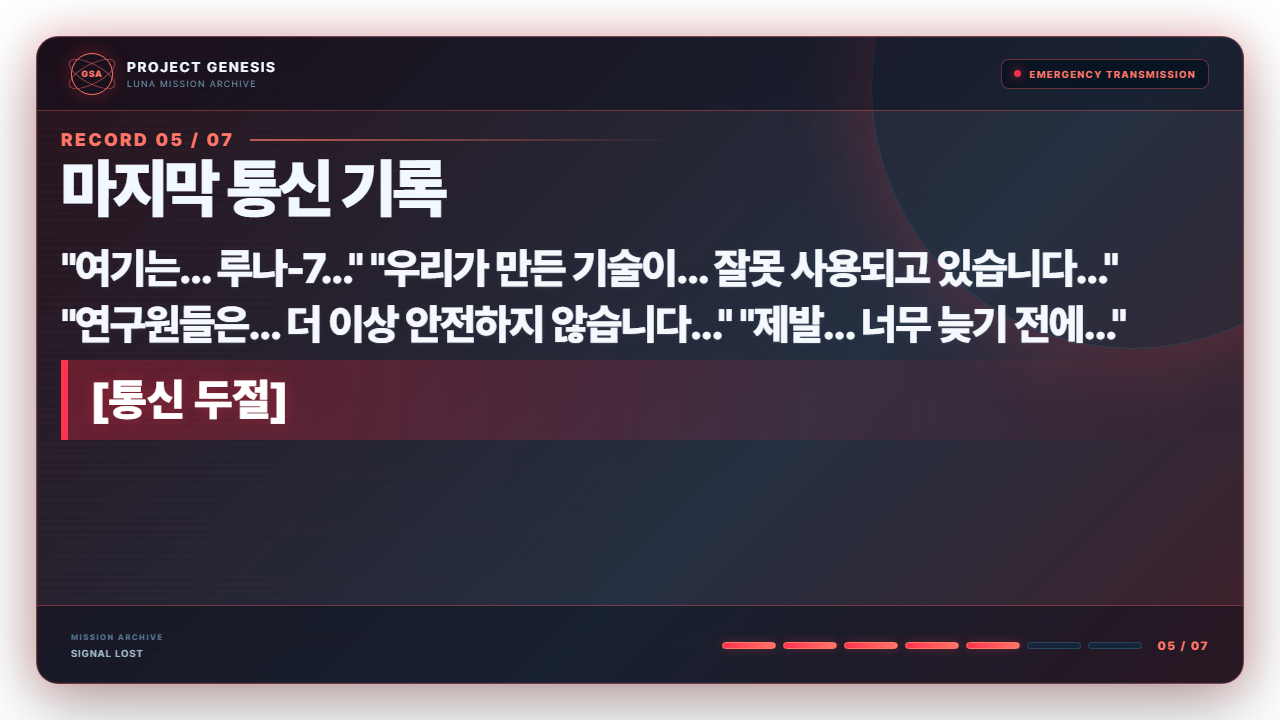
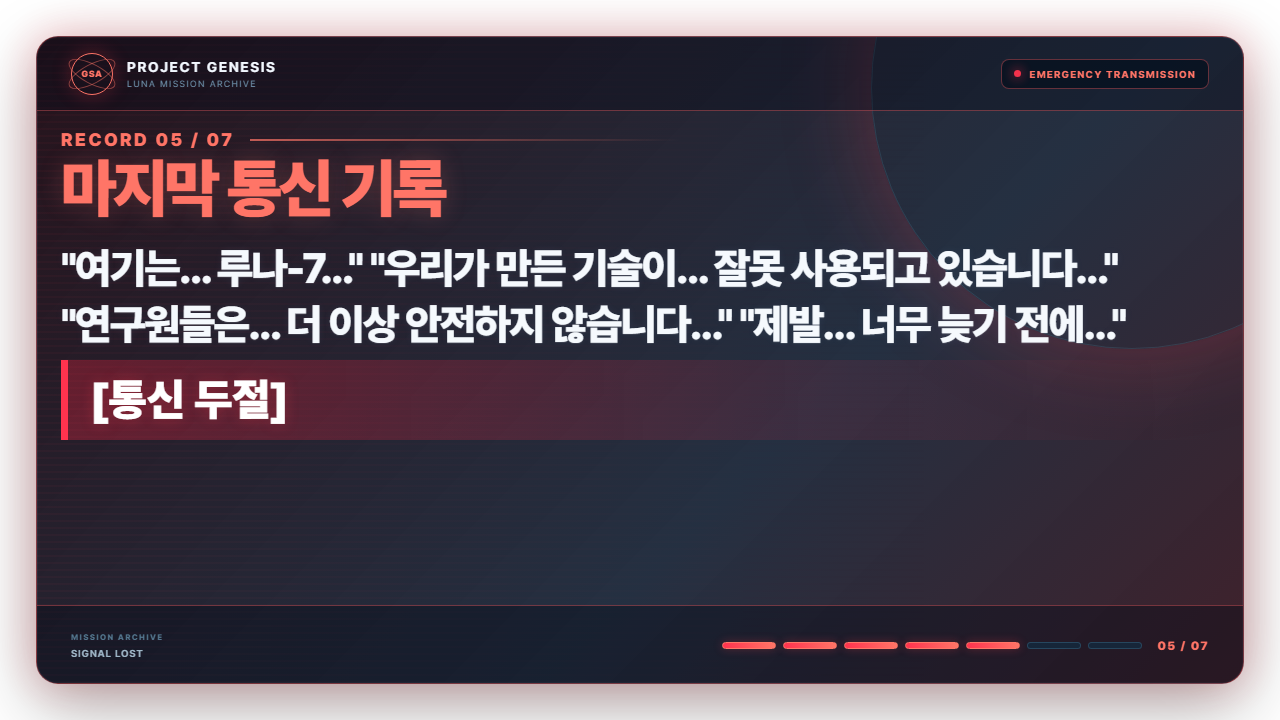
style: color all Genesis panel titles

Changed region(s): [[0.0312, 0.2139, 0.3438, 0.3056]]

diff --git a/apps/zep-studio/story-panel-renderer.css b/apps/zep-studio/story-panel-renderer.css
@@ -2,7 +2,12 @@
 :root{--accent:#62d9ff;--accent2:#347cff;--alert:#ff7b55;--glow:rgba(77,195,255,.32);--panel:rgba(3,12,28,.93);--panel2:rgba(7,24,47,.9);--line:rgba(102,217,255,.34);--text:#f2f8ff;--muted:#9cb5c9}
 *{box-sizing:border-box}html,body{width:1280px;height:720px;margin:0;overflow:hidden;background:transparent;font-family:Pretendard,Arial,sans-serif}body{padding:36px}.story-panel{position:relative;width:1208px;height:648px;overflow:hidden;border:1px solid var(--line);border-radius:22px;background:linear-gradient(135deg,var(--panel),rgba(4,17,37,.87) 62%,var(--panel2));color:var(--text);box-shadow:0 0 0 1px rgba(147,224,255,.06) inset,0 22px 70px rgba(0,0,0,.32),0 0 42px var(--glow);isolation:isolate}.story-panel::before{content:'';position:absolute;inset:0;z-index:-2;background:linear-gradient(rgba(117,208,255,.028) 1px,transparent 1px),linear-gradient(90deg,rgba(117,208,255,.028) 1px,transparent 1px);background-size:32px 32px;mask-image:linear-gradient(90deg,#000,transparent 78%)}.story-panel::after{content:'';position:absolute;width:520px;height:520px;right:-150px;top:-210px;z-index:-1;border:1px solid rgba(105,218,255,.12);border-radius:50%;box-shadow:0 0 90px var(--glow)}.tone-red{--accent:#ff7567;--accent2:#ff334e;--alert:#ffb264;--glow:rgba(255,55,70,.28);--line:rgba(255,100,103,.38);--panel:rgba(24,4,13,.94);--panel2:rgba(40,5,16,.89)}.tone-amber{--accent:#64d8ff;--accent2:#ff9b43;--alert:#ffad52;--glow:rgba(255,143,54,.22)}.tone-mixed{--accent:#65dfff;--accent2:#ff5e55;--alert:#ff7761;--glow:rgba(80,166,255,.26)}.tone-bright{--accent:#d8f8ff;--accent2:#67caff;--alert:#fff;--glow:rgba(156,234,255,.46);--panel:rgba(4,20,40,.88);--panel2:rgba(14,62,89,.84);--line:rgba(202,246,255,.62)}
 .panel-header{height:74px;display:flex;align-items:center;justify-content:space-between;padding:0 34px;border-bottom:1px solid var(--line);background:rgba(3,10,22,.34)}.agency{display:flex;align-items:center;gap:14px}.agency-mark{position:relative;display:grid;place-items:center;width:42px;height:42px;border:1px solid var(--accent);border-radius:50%;color:var(--accent);font-size:9px;font-weight:900;letter-spacing:.08em;box-shadow:0 0 20px var(--glow)}.agency-mark::before,.agency-mark::after{content:'';position:absolute;width:50px;height:18px;border:1px solid var(--accent);border-radius:50%;opacity:.48;transform:rotate(28deg)}.agency-mark::after{transform:rotate(-28deg)}.agency b,.agency small{display:block}.agency b{font-size:14px;letter-spacing:.12em}.agency small{margin-top:3px;color:#6e90aa;font-size:9px;letter-spacing:.16em}.system-status{display:flex;align-items:center;gap:9px;padding:8px 12px;border:1px solid var(--line);border-radius:8px;background:rgba(4,15,29,.72);color:var(--accent);font-size:10px;font-weight:800;letter-spacing:.12em}.system-status i{width:7px;height:7px;border-radius:50%;background:var(--accent2);box-shadow:0 0 12px var(--accent2);animation:pulse 1.6s infinite}@keyframes pulse{50%{opacity:.38}}
-.panel-main{display:block;height:494px;padding:18px 24px 12px}.copy{min-width:0;width:100%}.record-row{display:flex;align-items:center;gap:16px;color:var(--accent);font-size:18px;font-weight:900;letter-spacing:.13em}.record-row::after{content:'';height:2px;max-width:430px;flex:1;background:linear-gradient(90deg,var(--accent),transparent);opacity:.72}.copy h1{margin:6px 0 20px;font-size:64px;font-weight:900;line-height:1.02;letter-spacing:-.055em}.body-copy{width:100%}.body-copy p{max-width:1180px;margin:0;color:#f5f9fd;font-size:var(--body-size,42px);font-weight:850;line-height:1.32;letter-spacing:-.04em;word-break:keep-all;text-shadow:0 1px 0 rgba(255,255,255,.1),0 0 9px rgba(125,202,255,.07)}.highlight{display:flex;align-items:flex-start;min-height:80px;flex-direction:column;justify-content:center;margin-top:8px;padding:8px 22px;border-left:7px solid var(--accent2);background:linear-gradient(90deg,rgba(48,136,205,.27),transparent 96%);color:#fff;font-size:44px;font-weight:900;line-height:1.2;word-break:keep-all;text-shadow:0 0 14px var(--glow)}.highlight span{display:block}.story-panel.tone-red::before{background:repeating-linear-gradient(0deg,rgba(255,55,70,.035) 0,rgba(255,55,70,.035) 2px,transparent 2px,transparent 7px)}.tone-red .highlight{background:linear-gradient(90deg,rgba(255,35,65,.29),transparent)}.tone-mixed .highlight{background:linear-gradient(90deg,rgba(255,65,55,.27),rgba(45,132,210,.1),transparent)}.tone-bright .highlight{font-size:52px;letter-spacing:.09em;background:linear-gradient(90deg,rgba(132,225,255,.3),transparent)}
 .panel-main{display:block;height:494px;padding:18px 24px 12px}.copy{min-width:0;width:100%}.record-row{display:flex;align-items:center;gap:16px;color:var(--accent);font-size:18px;font-weight:900;letter-spacing:.13em}.record-row::after{content:'';height:2px;max-width:430px;flex:1;background:linear-gradient(90deg,var(--accent),transparent);opacity:.72}.copy h1{margin:6px 0 20px;font-size:64px;font-weight:900;line-height:1.02;letter-spacing:-.055em}.panel-1 .copy h1{color:#ffb264;text-shadow:0 0 24px rgba(255,178,100,.22)}.body-copy{width:100%}.body-copy p{max-width:1180px;margin:0;color:#f5f9fd;font-size:var(--body-size,42px);font-weight:850;line-height:1.32;letter-spacing:-.04em;word-break:keep-all;text-shadow:0 1px 0 rgba(255,255,255,.1),0 0 9px rgba(125,202,255,.07)}.highlight{display:flex;align-items:flex-start;min-height:80px;flex-direction:column;justify-content:center;margin-top:8px;padding:8px 22px;border-left:7px solid var(--accent2);background:linear-gradient(90deg,rgba(48,136,205,.27),transparent 96%);color:#fff;font-size:44px;font-weight:900;line-height:1.2;word-break:keep-all;text-shadow:0 0 14px var(--glow)}.highlight span{display:block}.story-panel.tone-red::before{background:repeating-linear-gradient(0deg,rgba(255,55,70,.035) 0,rgba(255,55,70,.035) 2px,transparent 2px,transparent 7px)}.tone-red .highlight{background:linear-gradient(90deg,rgba(255,35,65,.29),transparent)}.tone-mixed .highlight{background:linear-gradient(90deg,rgba(255,65,55,.27),rgba(45,132,210,.1),transparent)}.tone-bright .highlight{font-size:52px;letter-spacing:.09em;background:linear-gradient(90deg,rgba(132,225,255,.3),transparent)}
 .visual{position:relative;display:grid;place-items:center;min-width:0;border:1px solid rgba(108,204,255,.14);border-radius:15px;background:radial-gradient(circle at 50% 45%,rgba(65,162,220,.13),rgba(1,8,19,.3) 62%)}.visual::before,.visual::after{content:'';position:absolute;border:1px solid var(--line);border-radius:50%;opacity:.32}.visual::before{width:260px;height:260px}.visual::after{width:210px;height:210px}.visual svg{position:relative;z-index:1;width:286px;height:286px;filter:drop-shadow(0 0 16px var(--glow))}.visual .stroke{fill:none;stroke:var(--accent);stroke-width:4;stroke-linecap:round;stroke-linejoin:round}.visual .thin{fill:none;stroke:var(--accent);stroke-width:2;opacity:.58}.visual .fill{fill:var(--accent);opacity:.13}.visual .hot{fill:var(--accent2);stroke:var(--alert);stroke-width:2}.visual .soft{fill:var(--accent);opacity:.55}.visual-label{position:absolute;right:13px;bottom:11px;color:#517995;font-size:8px;font-weight:800;letter-spacing:.16em}
 .panel-footer{height:80px;display:grid;grid-template-columns:1fr auto;align-items:center;gap:24px;padding:0 34px;border-top:1px solid var(--line);background:rgba(2,9,20,.38)}.meta small,.meta b{display:block}.meta small{color:#557890;font-size:8px;font-weight:800;letter-spacing:.18em}.meta b{margin-top:5px;color:#9fb7c8;font-size:10px;letter-spacing:.08em}.progress{display:flex;align-items:center;gap:7px}.progress span{width:54px;height:7px;border:1px solid rgba(106,199,245,.2);border-radius:99px;background:rgba(15,47,70,.62)}.progress span.done{border-color:var(--accent);background:linear-gradient(90deg,var(--accent2),var(--accent));box-shadow:0 0 10px var(--glow)}.step-label{margin-left:8px;color:var(--accent);font-size:12px;font-weight:900;letter-spacing:.12em}
+.panel-2 .copy h1{color:#62d9ff;text-shadow:0 0 24px rgba(98,217,255,.2)}
+.panel-3 .copy h1{color:#83a9ff;text-shadow:0 0 24px rgba(131,169,255,.2)}
+.panel-4 .copy h1{color:#63edc2;text-shadow:0 0 24px rgba(99,237,194,.2)}
+.panel-5 .copy h1{color:#ff7567;text-shadow:0 0 24px rgba(255,117,103,.24)}
+.panel-6 .copy h1{color:#ff9b43;text-shadow:0 0 24px rgba(255,155,67,.23)}
+.panel-7 .copy h1{color:#67caff;text-shadow:0 0 28px rgba(103,202,255,.3)}
